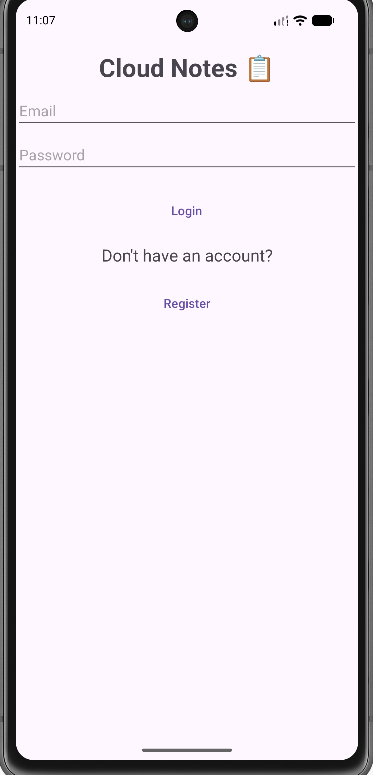
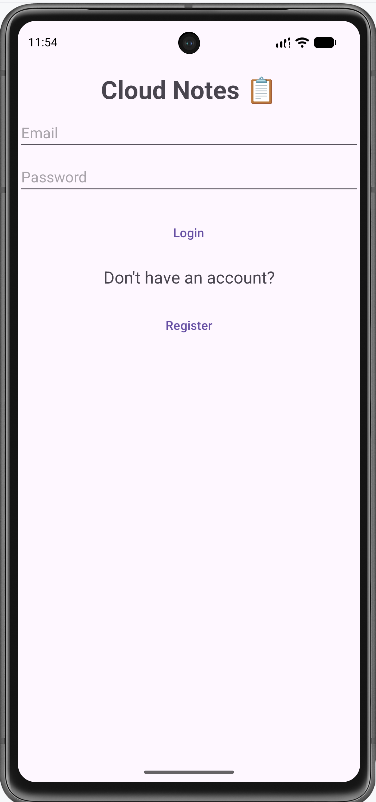
Update login screenshot

Changed region(s): [[0.0, 0.0, 1.0, 1.0], [0.2654, 0.2477, 0.7373, 0.4335]]

diff --git a/README.md b/README.md
@@ -128,7 +128,8 @@ Screenshots of the application will be added here.
 | <img src="screenshots/notespage.png" width="250"> | <img src="screenshots/addnotepage.png" width="250"> |
 
 | Edit Note |
-| <img src="screenshots/editnotepage.png" width="250"> |
+|-----|-----|
+| <img src="screenshots/editnotepage.png" width="250"> | <img src="screenshots/addnotepage.png" width="250"> |
 
 ## 🎯 Project Purpose
 
